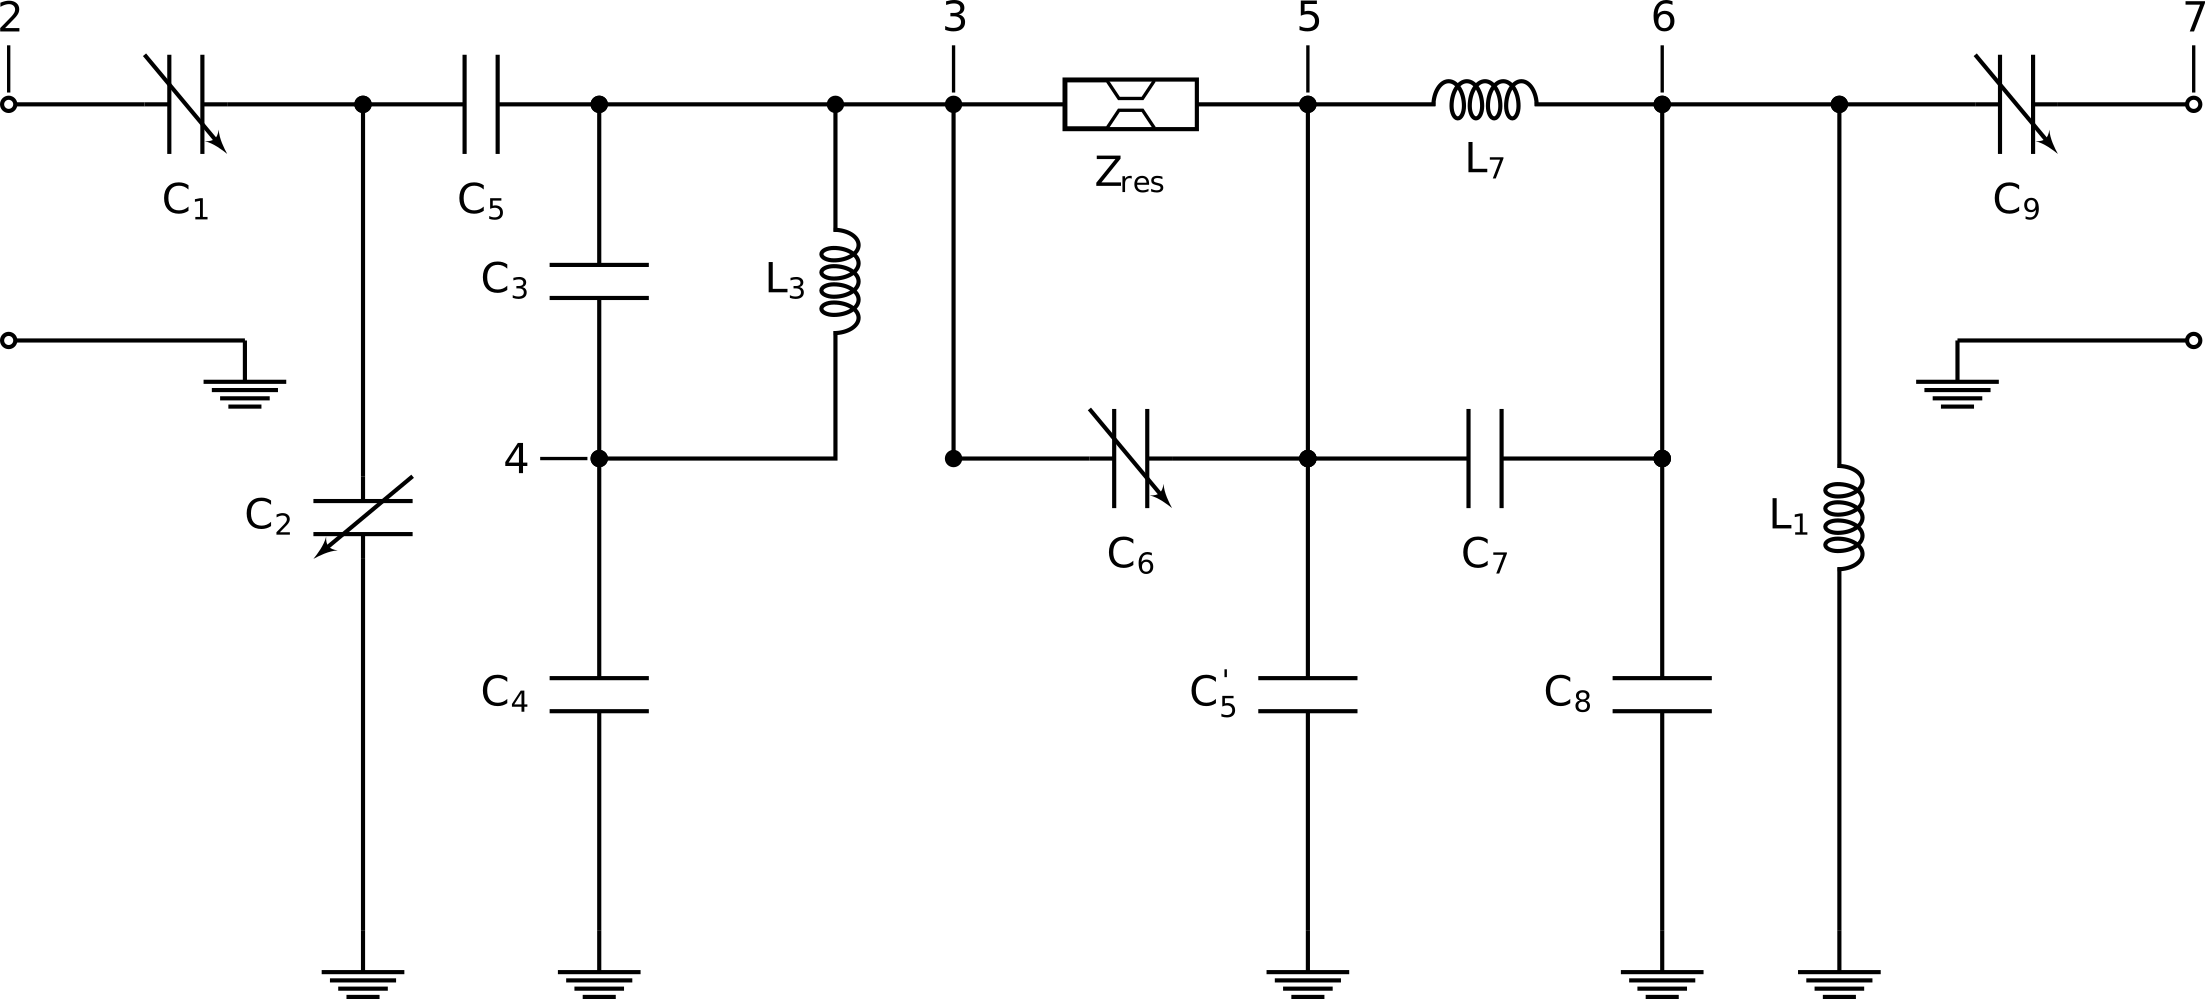
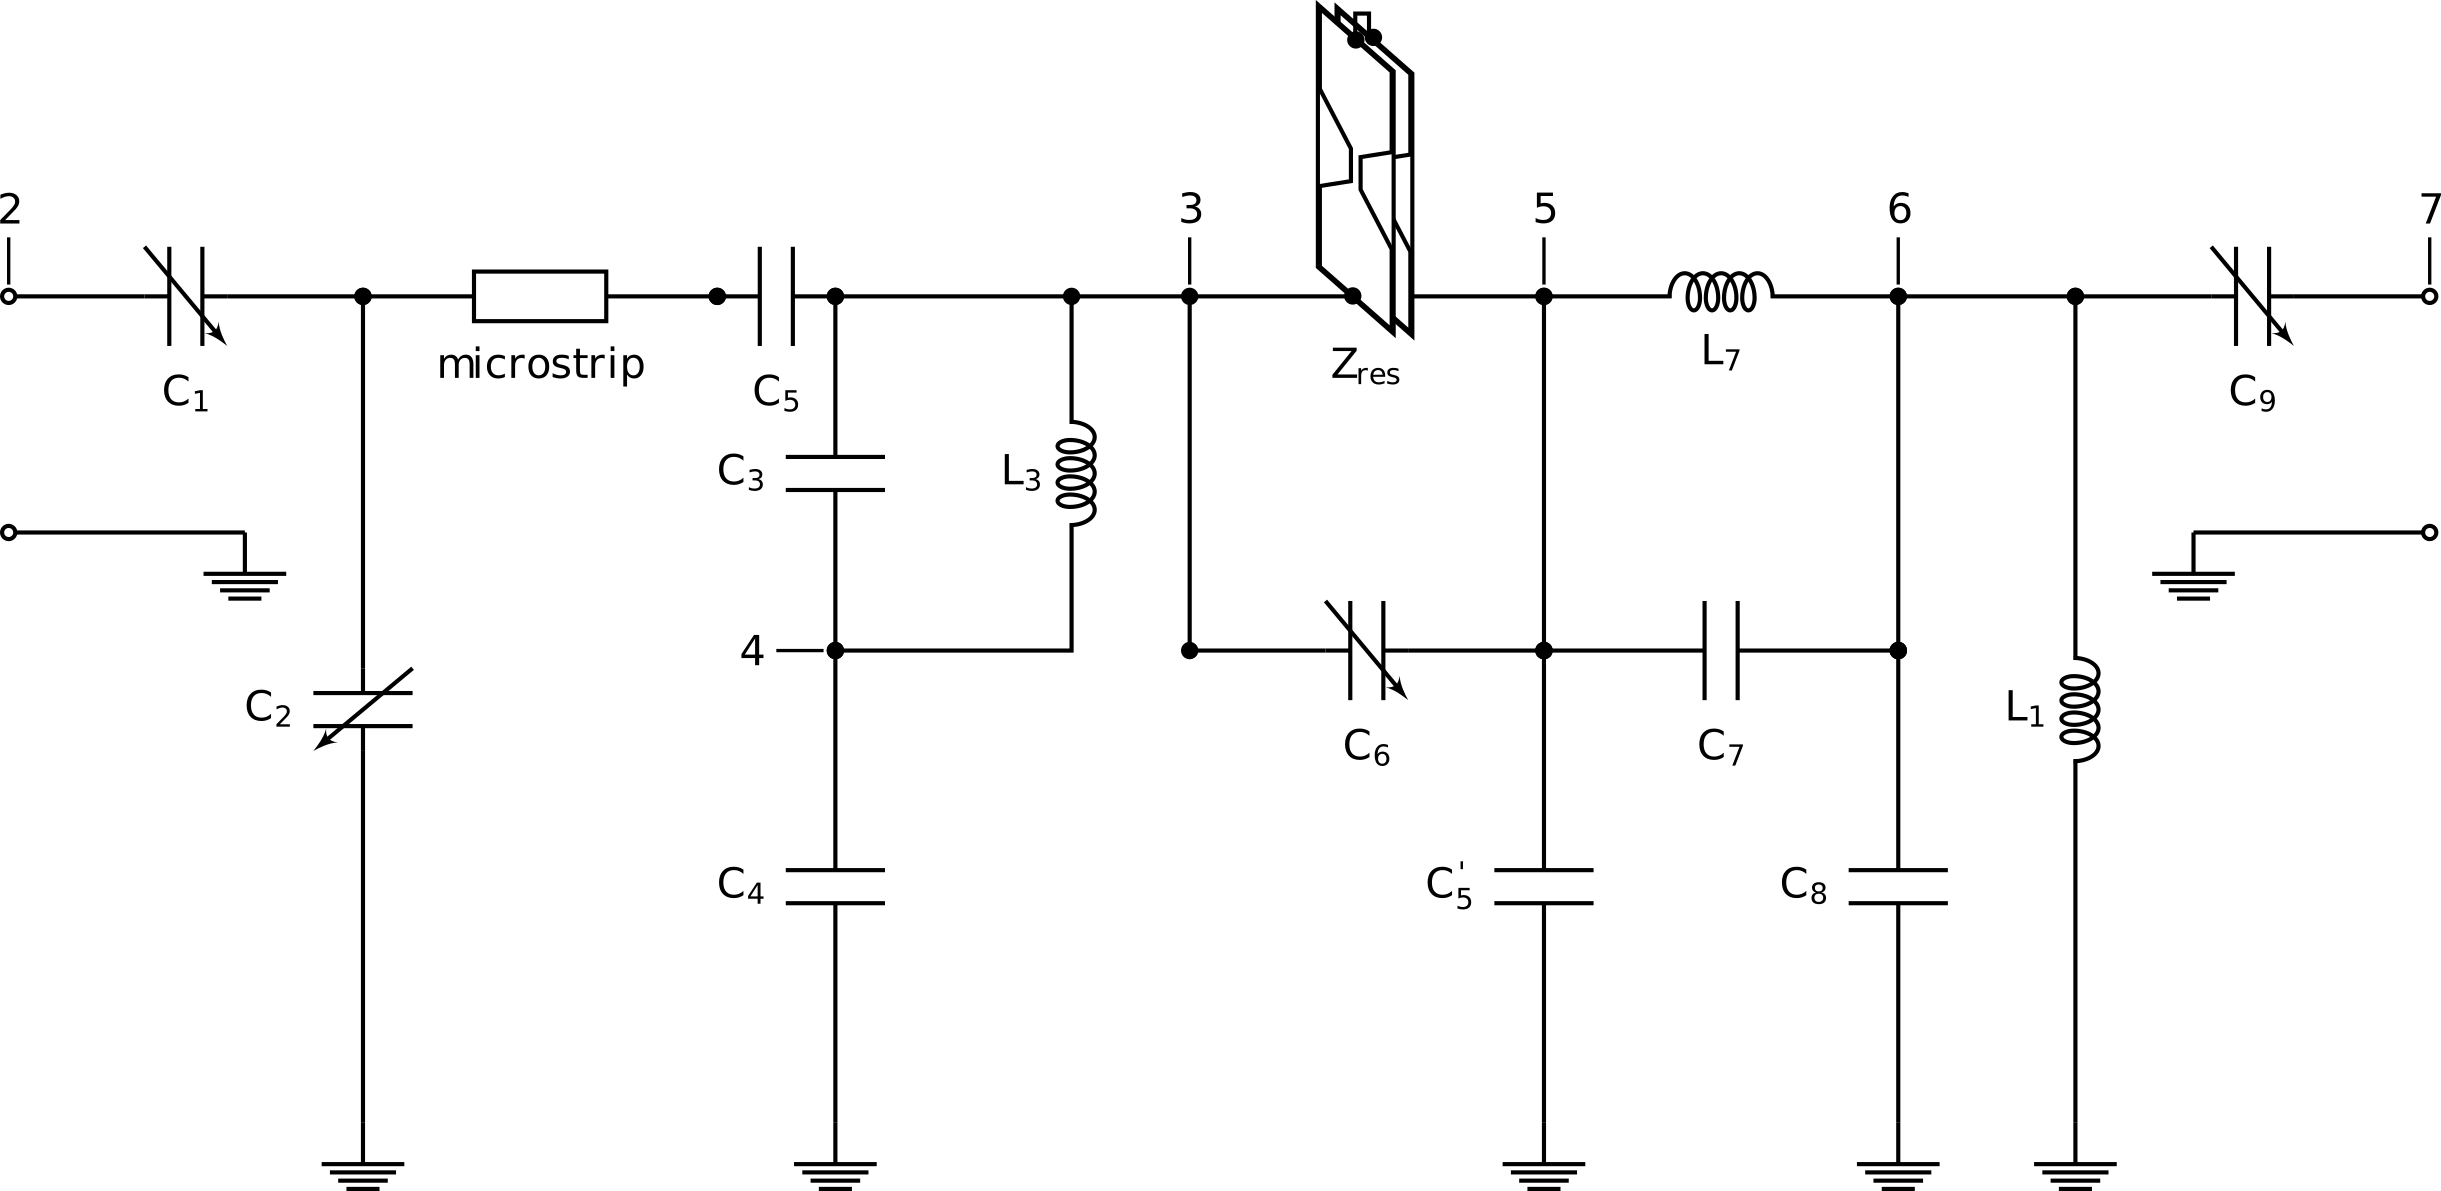
few corrections

diff --git a/ms5n17-tlp-mn-180216-001.tex b/ms5n17-tlp-mn-180216-001.tex
@@ -1,5 +1,5 @@
-\documentclass[preprint,12pt]{article}
-\usepackage{graphicx,amssymb,amsmath,amstext,hyperref,graphics,float,eurosym,geometry,authblk,lineno}
+\documentclass[preprint,5p]{elsarticle}
+\usepackage{graphicx,amssymb,amsmath,amstext,hyperref,graphics,float,eurosym,geometry,lineno}
 %\linenumbers
 \hypersetup{
     colorlinks=true,        % false: boxed links; true: colored links
@@ -18,19 +18,19 @@
 \title{Modular transmission line probes for microfluidic nuclear magnetic resonance spectroscopy and imaging}
 \author[1]{Manvendra Sharma}
 \author[1]{Marcel Utz}
-\affil[1]{School of Chemistry, University of Southampton, Southampton SO17 1BJ, United Kingdom}
-\date{\today}
-\setcounter{Maxaffil}{0}
-\renewcommand\Affilfont{\itshape\footnotesize}
-\maketitle
-\clearpage
+\address[1]{School of Chemistry, University of Southampton, Southampton SO17 1BJ, United Kingdom}
+%\date{\today}
+%\setcounter{Maxaffil}{0}
+%\renewcommand\Affilfont{\itshape\footnotesize}
+%\maketitle
+%\clearpage
 %%%%%%%%%%%%%%%%%%%%%%%%%%%%%%%%%%%%%%%%%%%%%%%%%%
 %%%%%%%%%%%%%%%%%%%%%%%%%%%%%%%%%%%%%%%%%%%%%%%%%%
 \begin{abstract}
-Microfluidic NMR (Nuclear Magnetic Resonance) can probe chemical or bio-chemical reactions, including the metabolism of cells, and tissues non-invasively in a tightly controlled and tailored microfluidic environment. We present a dual-channel modular probe assembly for  high efficiency microfluidic-NMR. The samples are contained in exchangeable, flow compatible planar microfluidic devices. The detector including the tuning and matching circuitry of the probe is modular and allows the use of different detectors optimised for different experimental conditions on the same probe base. The complete probe can be built from easily available parts. The probe body is made from prefabricated aluminium profiles and few precision machined parts, while the probe circuit and detector are made from PCB (printed circuit board) materials. The probe has a limit of detection of 1.18 nmol s$^{-1/2}$, resolution of 3.35 Hz and, excellent B$_{1}$ homogeneity. The probe is optimised for proton detection and can be tuned and matched simultaneously to proton and X channel ($^{13}$C or $^{15}$N) frequencies. We have successfully acquired $^1$H-$^{13}$C and $^1$H-$^{15}$N heteronuclear correlation spectrum (HSQC). Particularly, $^1$H-$^{15}$N HSQC spectrum of 1 mM $^{15}$N labeled ubiquitin from 2.5 $\mu$l of sample volume.
+Microfluidic NMR (Nuclear Magnetic Resonance) can probe chemical or bio-chemical reactions, including the metabolism of cells, and tissues non-invasively in a tightly controlled and tailored microfluidic environment. We present a dual-channel modular probe assembly for  high efficiency microfluidic-NMR. The samples are contained in exchangeable, flow compatible planar microfluidic devices. The detector including the tuning and matching circuitry of the probe is modular and allows the use of different detectors optimised for different experimental conditions on the same probe base. The complete probe can be built from easily available parts. The probe body is made from prefabricated aluminium profiles and few precision machined parts, while the probe circuit and detector are made from PCB (printed circuit board) materials. The probe has a limit of detection of 1.18 nmol s$^{-1/2}$, resolution of 3.35 Hz and, excellent B$_{1}$ homogeneity. The probe is optimised for proton detection and can be tuned and matched simultaneously to proton and X channel (\textsuperscript{13}C or \textsuperscript{15}N) frequencies. We have successfully acquired \textsuperscript{1}H-\textsuperscript{13}C and \textsuperscript{1}H-\textsuperscript{15}N heteronuclear correlation spectrum (HSQC). Particularly, \textsuperscript{1}H-\textsuperscript{15}N HSQC spectrum of 1 mM \textsuperscript{15}N labeled ubiquitin from 2.5 $\mu$l of sample volume.
 \end{abstract}
 \maketitle
-\clearpage
+%\clearpage
 %%%%%%%%%%%%%%%%%%%%%%%%%%%%%%%%%%%%%%%%%%%%%%%%%%%%%%%%%%%%%%%%%
 \section{Introduction}	
 \label{sec:intro}
@@ -50,9 +50,8 @@ Microfluidic NMR (Nuclear Magnetic Resonance) can probe chemical or bio-chemical
 %	\item The incremental cost of an additional insert is very small (o(200 Euros))
 %\end{itemize}
 NMR (Nuclear Magnetic Resonance) is a well established technique used in chemical 
-analysis~\cite{NMR-chemical-1995, hills1994magnetic, rabenstein1991quantitative}, 
-metabolomics~\cite{nmr-metabolomics-future-2017,nmr-metabolomics-2016}, molecular 
-structure determination~\cite{wuthrich1990protein}, reaction 
+analysis~\cite{NMR-chemical-1995, hills1994magnetic, rabenstein1991quantitative},
+molecular structure determination~\cite{wuthrich1990protein}, metabolomics~\cite{nmr-metabolomics-future-2017,nmr-metabolomics-2016}, reaction 
 monitoring~\cite{maiwald2004quantitative} etc. Microfluidic lab-on-a-chip (LOC) devices 
 are increasingly finding applications in chemistry and the life 
 sciences~\cite{whitesides2006origins,mark2010microfluidic}. 
@@ -71,7 +70,7 @@ affected by the addition of the marker, and can only be done once, at the end of
 experiment. Following kinetic processes therefore requires using multiple samples. By 
 contrast, NMR spectroscopy is non-invasive, generic (virtually all organic 
 molecules give an NMR signal), and highly specific (no two metabolites share 
-the same NMR spectrum). 
+the same NMR spectrum).
 
 NMR spectroscopy can provide a useful complementary readout capability 
 for microfluidic devices. For example, the metabolic activity of cell cultures 
@@ -91,7 +90,7 @@ detectors~\cite{stripline_jan}.
 Significant research has gone into developing micro-NMR detectors for flow probes, 
 where the sample container takes the form of a fixed capillary into which the sample
 must be injected. Only a few designs that allow insertion of a removable microfluidic 
-device into the detector have been described \todo{REF Graeme, Spengler, Korvink et al}.
+device into the detector have been described~\cite{Spengler-2014,Spengler-2016,gream_2016}.
 
 In this paper we present a novel modular probe designed for generic 
 microfluidic-NMR experiments. The design is based on a transmission line 
@@ -151,7 +150,7 @@ manufacturers or machined in-house if mechanical workshop facilities are availab
 
 \begin{figure}
 \centering
-\includegraphics[width=.5\linewidth,keepaspectratio=true]{./figures/ms5n17-tlp-im-181007-Probe-explode.png} 
+\includegraphics[width=.7\linewidth,keepaspectratio=true]{./figures/ms5n17-tlp-im-181007-Probe-explode.png} 
 \caption{Exploded view of he probe design (left) and assembled probe (right). 
 Probe base (blue) and scaffold assembly (green) with base PCB (brown, 8) provides a 
 generic mounting point for the NMR detector assembly(red). 
@@ -167,9 +166,9 @@ and, auxiliary support disks (12).}
 \end{figure}
 
 The probe is composed of three main assemblies: A) probe base; B) scaffold assembly; 
-C) detector assembly (figure~\ref{fig:probe}). 
-The  base (blue in figure~\ref{fig:probe-explode}) and the scaffold assembly 
-(green in figure~\ref{fig:probe-explode}) together make the skeleton of the probe. 
+C) detector assembly (\fig{fig:probe}). 
+The  base (blue in \fig{fig:probe-explode}) and the scaffold assembly 
+(green in \fig{fig:probe-explode}) together make the skeleton of the probe. 
 Both the base and scaffold assembly are made from standard aluminium profiles. 
 The base contains the BNC connectors for RF (Radio Frequency) input. 
 These BNC connectors are connected to semi-rigid coaxial cables for 
@@ -189,7 +188,7 @@ The TMPCB is permantly fixed to the probe base, and serves as attachment point
 for the exchangeable detector assembly. It also provides 
 capacitors (7) for secondary tuning and matching.
 The detector assembly is connected to through a pair of
-low-loss SMP connectors (14 in figure~\ref{fig:ProbePhoto}).
+low-loss SMP connectors (14 in \fig{fig:ProbePhoto}).
 While each detector assembly is roughly
 tuned and matched with fixed circuit elements soldered onto it,
 the adjustable capacitors on the TMPCB are used for 
@@ -242,7 +241,7 @@ PCB itself making it compact (38 mm O.D.). Detachable SMP connectors (14) are us
 connect the RF insert (6) and the detector assembly. }
 \label{fig:ProbePhoto}
 \end{figure}
-Figure~\ref{fig:ProbePhoto} shows two different versions of the probe with and without the RF insert (6) 
+\fig{fig:ProbePhoto} shows two different versions of the probe with and without the RF insert (6) 
 for the X channel. In (A) the X channel can be tuned to different nuclei by exchanging 6. 
 However, in (B) the circuitry of the RF insert (6) is integrated on the PCB plane (5), 
 making the design more compact.
@@ -270,7 +269,7 @@ to grow cells on the device.}
 \label{fig:device} 
 \end{figure}
 
-The double resnance circuit is based on the design shown in figure~\ref{fig:circuit}. 
+The double resnance circuit is based on the design shown in \fig{fig:circuit}. 
 %The size of the constriction was larger compared to~\cite{gream_2016} to allow use of larger 
 %sample volumes for some cases. 
 The transmission line detector is tuned to the desired proton 
@@ -284,18 +283,16 @@ The lower frequency channel is connected to the detector through a high-frequenc
 Tuning is achieved by $L_1$ and $C_4$, which are both located on the exchangeable insert, in combination with
 the complex admittance of the detector at the X channel frequency.
 To maximise efficiency, $L_1$ should have as high a $Q$-factor as possible. We have
-used commercially available flat copper coils of 8 mm diameter and 3.5 turns \todo{check values} in the case of 
+used commercially available flat copper coils of 5 mm diameter and 4.5 turns in the case of 
 \textsuperscript{15}N at 60 MHz. Tuning to \textsuperscript{13}C, either at 125 or at 150 MHz 
 could be achieved without $L_1$. 
 
 
 \begin{figure}
 \centering
-\includegraphics[width=.7\linewidth,keepaspectratio=true]{./figures/ms5n17-tlp-im-180110-circuit-diagram.png}
+\includegraphics[width=.8\linewidth,keepaspectratio=true]{./figures/ms5n17-tlp-im-180110-circuit-diagram.png}
 \caption{Circuit diagram of the double resonance probe. 
 Proton frequency is fed in from the left (port 2) and X frequency is fed in from right (port 7).
-\todo{modify figure to represent connections to detector structure properly, and include PCB microstrip
-transmission line}
 }
 \label{fig:circuit}
 \end{figure}
@@ -334,9 +331,9 @@ was done by trial and error using an Agilent FieldFox 4 GHz network analyser.
 PCB layouts were designed using KiCAD, and then sent to
 beta-layout GmbH (Aarbergen, Germany) and P.W. Circuits Ltd.~(Wigston, UK) 
 for manufacturing. Easily and inexpensively available FR4 PCB material
-(\fig{fig:ProbePhoto} A) proved adequate for some purposes, but limited resolution to about 10 Hz.
+(\fig{fig:ProbePhoto}(A)) proved adequate for some purposes, but limited resolution to about 10 Hz.
 A high-quality Teflon-based RF PCB material (RO3035, Rogers Corp., USA) was therefore used for optimal 
-performance in both sensitivity and resolution (\fig{fig:ProbePhoto} B).
+performance in both sensitivity and resolution (\fig{fig:ProbePhoto}(B)).
 The probe skeleton was assembled from prefabricated aluminium tubes with the  precision-machined scaffold
 disks using brass screws. Semi-rigid transmission lines were then threaded through the tubes, and the TMPCB plate was 
 soldered on top. The detector planes (3 and 5) and the PMMA spacer between them were assembled using short bits
@@ -345,7 +342,7 @@ of 0.5~mm magnet wire, which were soldered to the appropriate pads in the four c
 NMR experiments were performed on a Varian VNMRS console attached to a Varian 600 ultra shield 14.1 T magnet.  
 Imaging experiments were performed on Bruker AVANCE III spectrometer on a Bruker Active Shield II wide bore 11.7 T 
 magnet. 
-Sodium acetate and $^{15}$N labeled urea were purchased from Merek \todo{Address?} and Dulbecco Modified Eagle's Medium (DMEM) supplemented was purchased from Life Technologies, USA.\par
+Sodium acetate and $^{15}$N labeled urea were purchased from sigma-aldrich,UK and Dulbecco Modified Eagle's Medium (DMEM) supplemented was purchased from Life Technologies, USA.\par
 
 Precision-cut murine liver slices (PCLS) were obtained by first extracting a tissue core of 8 mm diameter 
 using a biopsy punch. PCLS of 250-300 $\mu$m thickness were cut from the core using a Krumdieck Tissue slicer, 
@@ -390,7 +387,7 @@ at the X frequency as well. As already explained, the X channel tuning frequency
 Experimental tuning and matching curves measured at 600 MHz, 500 MHz, 
 60 MHz (\textsuperscript{15}N frequency at 14 T) and 125 MHz (\textsuperscript{13}C frequency at  and 11.7 T). 
 Probe can be tuned to 2 frequencies at a time, above results were measured in 
-pairs of 600 MHz with 60 MHz and 500 MHz with125 MHz. Decoupling can be performed at all the 
+pairs of 600 MHz with 60 MHz and 500 MHz with 125 MHz. Decoupling can be performed at all the 
 frequencies as the channel separation is better than 15 decibels at all frequencies.}
 \label{fig:tandm} 
 \end{figure}
@@ -409,7 +406,7 @@ once the design has been validated.
 ratio of more than 90\%. The probe generates 100~kHz nutation frequency from 100~W input power both at 
 600~MHz and 500~MHz, corresponding to RF field efficiency ($B_{1}/\sqrt{power}$) of 10 kHz/$\sqrt{W}$. 
 The detector geometry has been optimised for a sample volume of 5~$\mu$l. It compares reasonably well to
-the value of 22 kHz/$\sqrt{W}$ that has been reported by Finch et al.\todo{REF} for single-frequency detector 
+the value of 22 kHz/$\sqrt{W}$ that has been reported by Finch et al.~\cite{gream_2016} for single-frequency detector 
 of half this size at a Larmor frequency of 300~MHz. 
 
 The probe is not sensitive enough to make direct detection of $^{15}$N signals practical. Nutation at the
@@ -428,9 +425,7 @@ No signs of arcing were obseved at this power level for pulses up to 1~ms durati
 \begin{figure}
 \centering
 \includegraphics[width=.7\linewidth,keepaspectratio=true]{./figures/ms5n17-tlp-sp-150218-15-Nnutation-171215-003.png} 
-\caption{$^{15}$N nutation detected on proton of $^{15}$N-urea dissolved in water acquired at 14 T corresponding to 60 MHz frequency. A radio-frequency field of 6~kHz can be generated at 60~MHz.
-\todo{fix typo in the x-axis label}
-}
+\caption{$^{15}$N nutation detected on proton of $^{15}$N-urea dissolved in water acquired at 14 T corresponding to 60 MHz frequency. A radio-frequency field of 6~kHz can be generated at 60~MHz.}
 \label{fig:15N-nutation} 
 \end{figure}
 
@@ -456,10 +451,10 @@ smaller detector by Finch et al.~\cite{gream_2016}
 
 Even though the resolution of the proton spectra still needs to be improved, it is sufficient to analyse
 complex mixtures. The proton spectrum of DMEM (Dulbecco modified Eagle's medium) cell growth medium acquired with 256 
-scans in 20 mins is shown in figure~\ref{fig:media-spec}. This demonstrates the suitability of this probe 
+scans in 20 mins is shown in \fig{fig:media-spec}. This demonstrates the suitability of this probe 
 for metabolomic studies of microfluidic cultures of cells, tissues, and small organisms. 
 
-Figure~\ref{fig:HSQC} demonstrates proton-detected double resonance experiments in the current setup. 
+\fig{fig:HSQC} demonstrates proton-detected double resonance experiments in the current setup. 
 The left panel shows a $^{13}$C-$^{1}$H heteronuclear single quantum correlation (HSQC) spectrum, acquired in 12 mins 
 (32 t$_1$ increments and 16 scans) 
 from a 2.5 $\mu$l sample of 100 mM u-$^{13}$C-glucose dissolved in water. The right panel shows a 
@@ -491,27 +486,27 @@ avoid image distortions due to eddy currents in the sleeve.
 \fig{fig:tisli} shows MR images of mouse liver tissue slice 
 immersed in DMEM cell growth medium.
 The slice was placed in a microfluidic device with circular sample chamber centred at the detector location, as 
-shown in \fig{fig:tisli}A. 
-The image shown in \fig{fig:tisli}B was acquired using a gradient echo (FLASH) pulse sequence with repetion time
+shown in \fig{fig:tisli}(A). 
+The image shown in \fig{fig:tisli}(B) was acquired using a gradient echo (FLASH) pulse sequence with repetion time
 $t_R=120$~ms and echo time $t_E=12$~ms \todo{verify all values}. The slice thickness of  1~mm encompasses the entire thickness of the tissue; the 
 lateral dimensions of all MR images in \fig{fig:tisli} are 512$\times$512 pixels
 at a resolution of 30~$\mu$m.
-\fig{fig:tisli}C shows a $B_0$ field map, which has been obtained by acquiring
+\fig{fig:tisli}(C) shows a $B_0$ field map, which has been obtained by acquiring
 two separate FLASH images with echo times $t_E=6$~ms and 12~ms, respectively.
 The brightness of each pixel is prootional to the sum of the magnitude of
 the two images, whereas the colour encode the phase difference bewteen them.
 The full colour range from red to blue spans phase differences from $-\pi$ to
 $+\pi$, corresponding to local field variations of $\Delta B/B_0=...$ 
 \todo{compute value and insert here}.
-A spin echo image is shown in \fig{fig:tisli}D, acquired over 25~min. Finally,
-\fig{fig:tisli}E shows a RARE image using the same parameters, with 8 echos
+A spin echo image is shown in \fig{fig:tisli}(D), acquired over 25~min. Finally,
+\fig{fig:tisli}(E) shows a RARE image using the same parameters, with 8 echos
 acquired per scan, thus reducing the acquisition time to 8 minutes.
 
 
 \begin{figure}
 \centering
 \includegraphics[width=.7\linewidth,keepaspectratio=true]{./figures/ms5n17-tisli-im-180511.png} 
-\caption{MR images of a freshly cut live slice from a mouse. A: optical micrograph; B: Gradient echo image acquired in 1 minute; C: magnetic field map; D Spin echo image acquired in 30 minutes; E: RARE8 image acquired in 8 minutes.}
+\caption{MR images of a freshly cut live slice from a mouse. A: optical micrograph; B: Gradient echo image acquired in 1 minute; C: magnetic field map; D: Spin echo image acquired in 30 minutes; E: RARE8 image acquired in 8 minutes.}
 \label{fig:tisli} 
 \end{figure}
 
@@ -534,7 +529,7 @@ Using simple microfluidic devices made from PMMA sheets by laser cutting,
 spectral resolution around 0.005~ppm is achieved in proton spectra at 
 600~MHz. This is sufficient for primary metabolic studies, but some
 applications could benefit from better resolution. The probe has already been 
-used for various  experiments including reaction monitoring  \todo{REF}, 
+used for various  experiments including reaction monitoring~\cite{Fang-2018}, 
 micro-imaging of mouse liver tissue slices, and metabolic studies of 
 mammalian cells. The probe is designed for double resonance, and
 acqusition of proton-detected heteronuclear correlation experiments
